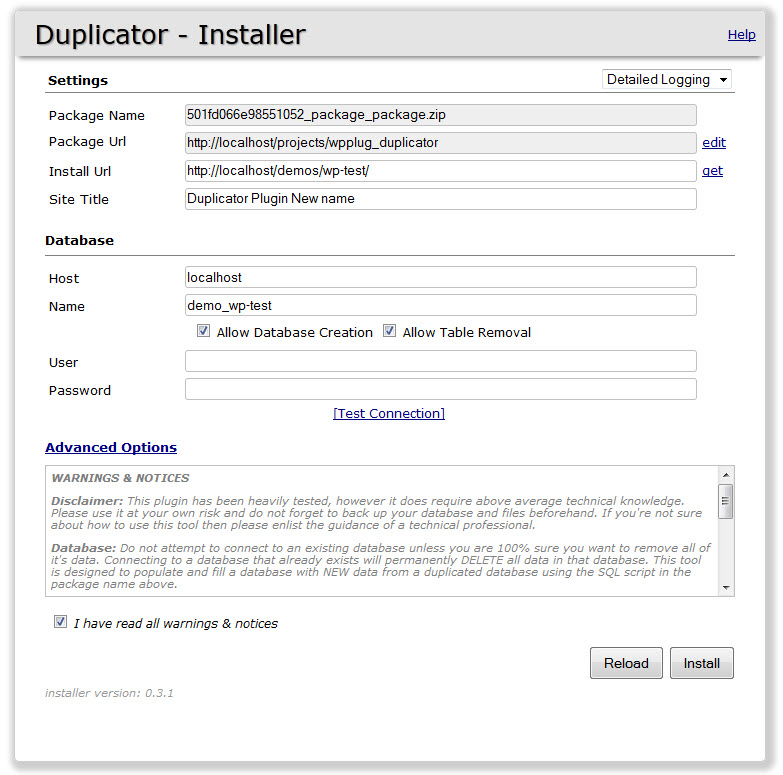
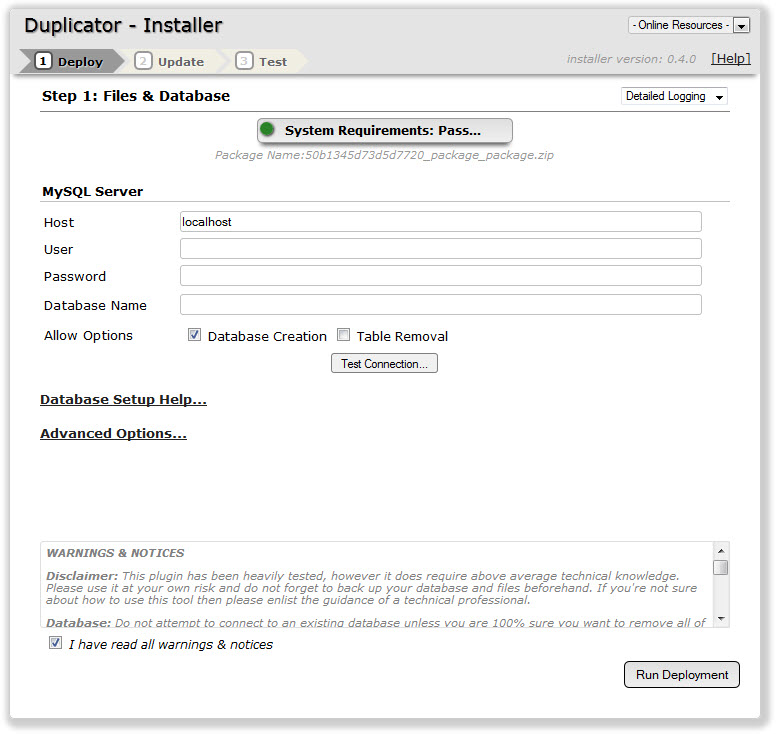
cpanel video links in installer
git-svn-id: https://plugins.svn.wordpress.org/duplicator/trunk@631295 b8457f37-d9ea-0310-8a92-e5e31aec5664

diff --git a/files/installer/inc.style.css b/files/installer/inc.style.css
@@ -61,6 +61,7 @@ div.warning-info {padding:5px;font-size:11px; color:gray; line-height:12px;font-
 select#logging {font-size:11px}
 table.table-inputs td{white-space:nowrap;}
 table.dbtable-opts td{font-size:12px;}
+div#dup-step1-cpanel {}
 input#dup-step1-dbconn-btn {font-size:11px; height:20px; border:1px solid gray; border-radius:3px; cursor:pointer}
 div.dup-step1-warning-area {padding:5px; font-size:12px; font-weight:normal; font-style:italic;}
 div.tryagain{padding-top:50px; text-align:center; width:100%; font-size:14px}

diff --git a/files/installer.rescue.php b/files/installer.rescue.php
@@ -84,8 +84,8 @@ if (file_exists('dtoken.php')) {
 $GLOBALS['FW_TABLEPREFIX'] 	= 'wpplug_';
 $GLOBALS['FW_URL_OLD'] 		= 'http://localhost/projects/wpplug_duplicator';
 $GLOBALS['FW_URL_NEW'] 		= '';
-$GLOBALS['FW_PACKAGE_NAME'] = '508ffa52e52517251_package_package.zip';
-$GLOBALS['FW_SECURE_NAME'] 	= '508ffa52e52517251_package';
+$GLOBALS['FW_PACKAGE_NAME'] = '50b3828414d0e2993_package_package.zip';
+$GLOBALS['FW_SECURE_NAME'] 	= '50b3828414d0e2993_package';
 $GLOBALS['FW_DBHOST'] 		= 'localhost';
 $GLOBALS['FW_DBNAME'] 		= '';
 $GLOBALS['FW_DBUSER'] 		= '';
@@ -1363,6 +1363,7 @@ div.warning-info {padding:5px;font-size:11px; color:gray; line-height:12px;font-
 select#logging {font-size:11px}
 table.table-inputs td{white-space:nowrap;}
 table.dbtable-opts td{font-size:12px;}
+div#dup-step1-cpanel {}
 input#dup-step1-dbconn-btn {font-size:11px; height:20px; border:1px solid gray; border-radius:3px; cursor:pointer}
 div.dup-step1-warning-area {padding:5px; font-size:12px; font-weight:normal; font-style:italic;}
 div.tryagain{padding-top:50px; text-align:center; width:100%; font-size:14px}
@@ -1744,7 +1745,7 @@ e||(e=b.text()||"",e=jQuery.template(s,"{{ko_with $item.koBindingContext}}"+e+"{
 			<tr>
 				<td style="width:100%;">
 					<div style="font-size:19px; text-shadow:1px 1px 1px #777;">
-						<!-- !!DO NOT CHANGE OR EDIT PRODUCT NAME!!
+						<!-- !!DO NOT CHANGE/EDIT OR REMOVE PRODUCT NAME!!
 						If your interested in Private Label Rights please contact us at the URL below to discuss
 						customizations to product labeling: http://lifeinthegrid.com/services/	-->
 						&nbsp; Duplicator - Installer
@@ -1984,6 +1985,7 @@ VIEW: STEP 1- INPUT -->
 						<tr>
 							<td><input type="checkbox" name="dbmake" id="dbmake" checked="checked" value="1" /> <label for="dbmake">Database Creation</label></td>
 							<td><input type="checkbox" name="dbclean" id="dbclean" value="1" /> <label for="dbclean">Table Removal</label> </td>
+
 						</tr>						
 					</table>	
 				</td>
@@ -1991,6 +1993,18 @@ VIEW: STEP 1- INPUT -->
 		</table>
 		<div style="margin:auto; text-align:center"><input id="dup-step1-dbconn-btn" type="button" onclick="Duplicator.dlgTestDB()" style="" value="Test Connection..." /></div>
 		<br/>
+		
+		<!-- !!DO NOT CHANGE/EDIT OR REMOVE THIS SECTION!!
+		If your interested in Private Label Rights please contact us at the URL below to discuss
+		customizations to product labeling: http://lifeinthegrid.com/services/	-->
+		<a href="javascript:void(0)" onclick="$('#dup-step1-cpanel').toggle(250)"><b>Database Setup Help...</b></a>
+		<div id='dup-step1-cpanel' style="display:none">
+			<div style="padding:10px 0px 0px 10px;line-height:22px">
+				<b>Need cPanel Database Help?</b> <br/>
+				&raquo; See the video tutorial <a href="http://lifeinthegrid.com/duplicator-guide" target="_blank">cPanel Database Setup</a> <br/>
+				&raquo; Need a host that supports cPanel?  See the Duplicator <a href="http://lifeinthegrid.com/duplicator-hosts" target="_blank">approved hosting</a> page.
+			</div>
+		</div><br/><br/>
 		
 		<a href="javascript:void(0)" onclick="$('#dup-step1-adv-opts').toggle(250)"><b>Advanced Options...</b></a>
 		<div id='dup-step1-adv-opts' style="display:none">
@@ -2004,7 +2018,7 @@ VIEW: STEP 1- INPUT -->
 		</div>
 
 		<!-- NOTICES  -->
-		<div class="warning-info" style="margin-top:100px">
+		<div class="warning-info" style="margin-top:50px">
 			<b>WARNINGS &AMP; NOTICES</b> 
 			<p><b>Disclaimer:</b> This plugin has been heavily tested, however it does require above average technical knowledge. Please use it at your own risk and do not forget to back up your database and files beforehand. If you're not sure about how to use this tool then please enlist the guidance of a technical professional.</p>
 			
@@ -2362,6 +2376,7 @@ VIEW: STEP 1- INPUT -->
 						<tr>
 							<td><input type="checkbox" name="dbmake" id="dbmake" checked="checked" value="1" /> <label for="dbmake">Database Creation</label></td>
 							<td><input type="checkbox" name="dbclean" id="dbclean" value="1" /> <label for="dbclean">Table Removal</label> </td>
+
 						</tr>						
 					</table>	
 				</td>
@@ -2369,6 +2384,18 @@ VIEW: STEP 1- INPUT -->
 		</table>
 		<div style="margin:auto; text-align:center"><input id="dup-step1-dbconn-btn" type="button" onclick="Duplicator.dlgTestDB()" style="" value="Test Connection..." /></div>
 		<br/>
+		
+		<!-- !!DO NOT CHANGE/EDIT OR REMOVE THIS SECTION!!
+		If your interested in Private Label Rights please contact us at the URL below to discuss
+		customizations to product labeling: http://lifeinthegrid.com/services/	-->
+		<a href="javascript:void(0)" onclick="$('#dup-step1-cpanel').toggle(250)"><b>Database Setup Help...</b></a>
+		<div id='dup-step1-cpanel' style="display:none">
+			<div style="padding:10px 0px 0px 10px;line-height:22px">
+				<b>Need cPanel Database Help?</b> <br/>
+				&raquo; See the video tutorial <a href="http://lifeinthegrid.com/duplicator-guide" target="_blank">cPanel Database Setup</a> <br/>
+				&raquo; Need a host that supports cPanel?  See the Duplicator <a href="http://lifeinthegrid.com/duplicator-hosts" target="_blank">approved hosting</a> page.
+			</div>
+		</div><br/><br/>
 		
 		<a href="javascript:void(0)" onclick="$('#dup-step1-adv-opts').toggle(250)"><b>Advanced Options...</b></a>
 		<div id='dup-step1-adv-opts' style="display:none">
@@ -2382,7 +2409,7 @@ VIEW: STEP 1- INPUT -->
 		</div>
 
 		<!-- NOTICES  -->
-		<div class="warning-info" style="margin-top:100px">
+		<div class="warning-info" style="margin-top:50px">
 			<b>WARNINGS &AMP; NOTICES</b> 
 			<p><b>Disclaimer:</b> This plugin has been heavily tested, however it does require above average technical knowledge. Please use it at your own risk and do not forget to back up your database and files beforehand. If you're not sure about how to use this tool then please enlist the guidance of a technical professional.</p>
 			

diff --git a/files/installer.template.php b/files/installer.template.php
@@ -1363,6 +1363,7 @@ div.warning-info {padding:5px;font-size:11px; color:gray; line-height:12px;font-
 select#logging {font-size:11px}
 table.table-inputs td{white-space:nowrap;}
 table.dbtable-opts td{font-size:12px;}
+div#dup-step1-cpanel {}
 input#dup-step1-dbconn-btn {font-size:11px; height:20px; border:1px solid gray; border-radius:3px; cursor:pointer}
 div.dup-step1-warning-area {padding:5px; font-size:12px; font-weight:normal; font-style:italic;}
 div.tryagain{padding-top:50px; text-align:center; width:100%; font-size:14px}
@@ -1744,7 +1745,7 @@ e||(e=b.text()||"",e=jQuery.template(s,"{{ko_with $item.koBindingContext}}"+e+"{
 			<tr>
 				<td style="width:100%;">
 					<div style="font-size:19px; text-shadow:1px 1px 1px #777;">
-						<!-- !!DO NOT CHANGE OR EDIT PRODUCT NAME!!
+						<!-- !!DO NOT CHANGE/EDIT OR REMOVE PRODUCT NAME!!
 						If your interested in Private Label Rights please contact us at the URL below to discuss
 						customizations to product labeling: http://lifeinthegrid.com/services/	-->
 						&nbsp; Duplicator - Installer
@@ -1984,6 +1985,7 @@ VIEW: STEP 1- INPUT -->
 						<tr>
 							<td><input type="checkbox" name="dbmake" id="dbmake" checked="checked" value="1" /> <label for="dbmake">Database Creation</label></td>
 							<td><input type="checkbox" name="dbclean" id="dbclean" value="1" /> <label for="dbclean">Table Removal</label> </td>
+
 						</tr>						
 					</table>	
 				</td>
@@ -1991,6 +1993,18 @@ VIEW: STEP 1- INPUT -->
 		</table>
 		<div style="margin:auto; text-align:center"><input id="dup-step1-dbconn-btn" type="button" onclick="Duplicator.dlgTestDB()" style="" value="Test Connection..." /></div>
 		<br/>
+		
+		<!-- !!DO NOT CHANGE/EDIT OR REMOVE THIS SECTION!!
+		If your interested in Private Label Rights please contact us at the URL below to discuss
+		customizations to product labeling: http://lifeinthegrid.com/services/	-->
+		<a href="javascript:void(0)" onclick="$('#dup-step1-cpanel').toggle(250)"><b>Database Setup Help...</b></a>
+		<div id='dup-step1-cpanel' style="display:none">
+			<div style="padding:10px 0px 0px 10px;line-height:22px">
+				<b>Need cPanel Database Help?</b> <br/>
+				&raquo; See the video tutorial <a href="http://lifeinthegrid.com/duplicator-guide" target="_blank">cPanel Database Setup</a> <br/>
+				&raquo; Need a host that supports cPanel?  See the Duplicator <a href="http://lifeinthegrid.com/duplicator-hosts" target="_blank">approved hosting</a> page.
+			</div>
+		</div><br/><br/>
 		
 		<a href="javascript:void(0)" onclick="$('#dup-step1-adv-opts').toggle(250)"><b>Advanced Options...</b></a>
 		<div id='dup-step1-adv-opts' style="display:none">
@@ -2004,7 +2018,7 @@ VIEW: STEP 1- INPUT -->
 		</div>
 
 		<!-- NOTICES  -->
-		<div class="warning-info" style="margin-top:100px">
+		<div class="warning-info" style="margin-top:50px">
 			<b>WARNINGS &AMP; NOTICES</b> 
 			<p><b>Disclaimer:</b> This plugin has been heavily tested, however it does require above average technical knowledge. Please use it at your own risk and do not forget to back up your database and files beforehand. If you're not sure about how to use this tool then please enlist the guidance of a technical professional.</p>
 			
@@ -2362,6 +2376,7 @@ VIEW: STEP 1- INPUT -->
 						<tr>
 							<td><input type="checkbox" name="dbmake" id="dbmake" checked="checked" value="1" /> <label for="dbmake">Database Creation</label></td>
 							<td><input type="checkbox" name="dbclean" id="dbclean" value="1" /> <label for="dbclean">Table Removal</label> </td>
+
 						</tr>						
 					</table>	
 				</td>
@@ -2369,6 +2384,18 @@ VIEW: STEP 1- INPUT -->
 		</table>
 		<div style="margin:auto; text-align:center"><input id="dup-step1-dbconn-btn" type="button" onclick="Duplicator.dlgTestDB()" style="" value="Test Connection..." /></div>
 		<br/>
+		
+		<!-- !!DO NOT CHANGE/EDIT OR REMOVE THIS SECTION!!
+		If your interested in Private Label Rights please contact us at the URL below to discuss
+		customizations to product labeling: http://lifeinthegrid.com/services/	-->
+		<a href="javascript:void(0)" onclick="$('#dup-step1-cpanel').toggle(250)"><b>Database Setup Help...</b></a>
+		<div id='dup-step1-cpanel' style="display:none">
+			<div style="padding:10px 0px 0px 10px;line-height:22px">
+				<b>Need cPanel Database Help?</b> <br/>
+				&raquo; See the video tutorial <a href="http://lifeinthegrid.com/duplicator-guide" target="_blank">cPanel Database Setup</a> <br/>
+				&raquo; Need a host that supports cPanel?  See the Duplicator <a href="http://lifeinthegrid.com/duplicator-hosts" target="_blank">approved hosting</a> page.
+			</div>
+		</div><br/><br/>
 		
 		<a href="javascript:void(0)" onclick="$('#dup-step1-adv-opts').toggle(250)"><b>Advanced Options...</b></a>
 		<div id='dup-step1-adv-opts' style="display:none">
@@ -2382,7 +2409,7 @@ VIEW: STEP 1- INPUT -->
 		</div>
 
 		<!-- NOTICES  -->
-		<div class="warning-info" style="margin-top:100px">
+		<div class="warning-info" style="margin-top:50px">
 			<b>WARNINGS &AMP; NOTICES</b> 
 			<p><b>Disclaimer:</b> This plugin has been heavily tested, however it does require above average technical knowledge. Please use it at your own risk and do not forget to back up your database and files beforehand. If you're not sure about how to use this tool then please enlist the guidance of a technical professional.</p>
 			

diff --git a/files/installer/view.step1.php b/files/installer/view.step1.php
@@ -192,6 +192,7 @@ VIEW: STEP 1- INPUT -->
 						<tr>
 							<td><input type="checkbox" name="dbmake" id="dbmake" checked="checked" value="1" /> <label for="dbmake">Database Creation</label></td>
 							<td><input type="checkbox" name="dbclean" id="dbclean" value="1" /> <label for="dbclean">Table Removal</label> </td>
+
 						</tr>						
 					</table>	
 				</td>
@@ -199,6 +200,18 @@ VIEW: STEP 1- INPUT -->
 		</table>
 		<div style="margin:auto; text-align:center"><input id="dup-step1-dbconn-btn" type="button" onclick="Duplicator.dlgTestDB()" style="" value="Test Connection..." /></div>
 		<br/>
+		
+		<!-- !!DO NOT CHANGE/EDIT OR REMOVE THIS SECTION!!
+		If your interested in Private Label Rights please contact us at the URL below to discuss
+		customizations to product labeling: http://lifeinthegrid.com/services/	-->
+		<a href="javascript:void(0)" onclick="$('#dup-step1-cpanel').toggle(250)"><b>Database Setup Help...</b></a>
+		<div id='dup-step1-cpanel' style="display:none">
+			<div style="padding:10px 0px 0px 10px;line-height:22px">
+				<b>Need cPanel Database Help?</b> <br/>
+				&raquo; See the video tutorial <a href="http://lifeinthegrid.com/duplicator-guide" target="_blank">cPanel Database Setup</a> <br/>
+				&raquo; Need a host that supports cPanel?  See the Duplicator <a href="http://lifeinthegrid.com/duplicator-hosts" target="_blank">approved hosting</a> page.
+			</div>
+		</div><br/><br/>
 		
 		<a href="javascript:void(0)" onclick="$('#dup-step1-adv-opts').toggle(250)"><b>Advanced Options...</b></a>
 		<div id='dup-step1-adv-opts' style="display:none">
@@ -212,7 +225,7 @@ VIEW: STEP 1- INPUT -->
 		</div>
 
 		<!-- NOTICES  -->
-		<div class="warning-info" style="margin-top:100px">
+		<div class="warning-info" style="margin-top:50px">
 			<b>WARNINGS &AMP; NOTICES</b> 
 			<p><b>Disclaimer:</b> This plugin has been heavily tested, however it does require above average technical knowledge. Please use it at your own risk and do not forget to back up your database and files beforehand. If you're not sure about how to use this tool then please enlist the guidance of a technical professional.</p>
 			

diff --git a/inc/page.about.php b/inc/page.about.php
@@ -12,7 +12,7 @@
 	<!-- h2 requred here for general system messages -->
 	<h2 style='display:none'></h2>
 	<div class="dup-header widget">
-		<!-- !!DO NOT CHANGE OR EDIT PRODUCT NAME!!
+		<!-- !!DO NOT CHANGE/EDIT OR REMOVE PRODUCT NAME!!
 		If your interested in Private Label Rights please contact us at the URL below to discuss
 		customizations to product labeling: http://lifeinthegrid.com/services/	-->
 		<div style='float:left;height:45px'><img src="<?php echo DUPLICATOR_PLUGIN_URL  ?>img/logo.png" style='text-align:top'  /></div> 

diff --git a/files/installer/main.installer.php b/files/installer/main.installer.php
@@ -185,7 +185,7 @@ if ($_POST['action_step'] == 1) {
 			<tr>
 				<td style="width:100%;">
 					<div style="font-size:19px; text-shadow:1px 1px 1px #777;">
-						<!-- !!DO NOT CHANGE OR EDIT PRODUCT NAME!!
+						<!-- !!DO NOT CHANGE/EDIT OR REMOVE PRODUCT NAME!!
 						If your interested in Private Label Rights please contact us at the URL below to discuss
 						customizations to product labeling: http://lifeinthegrid.com/services/	-->
 						&nbsp; Duplicator - Installer
